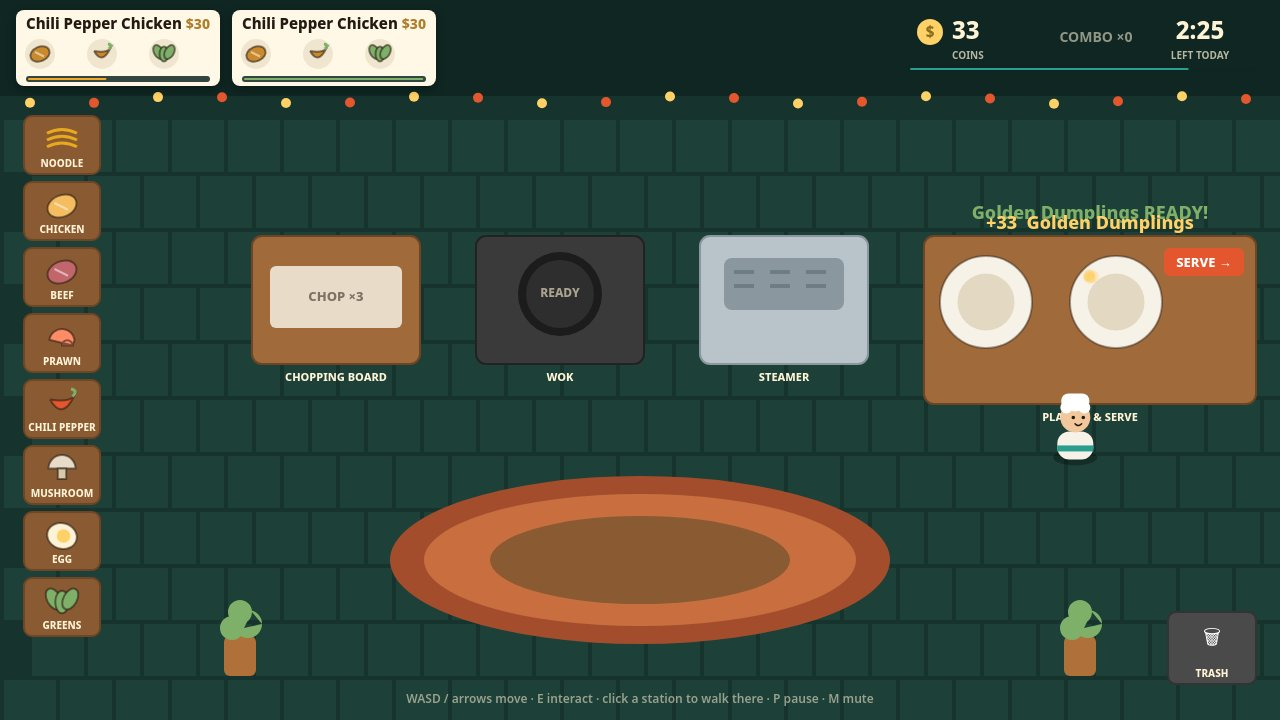
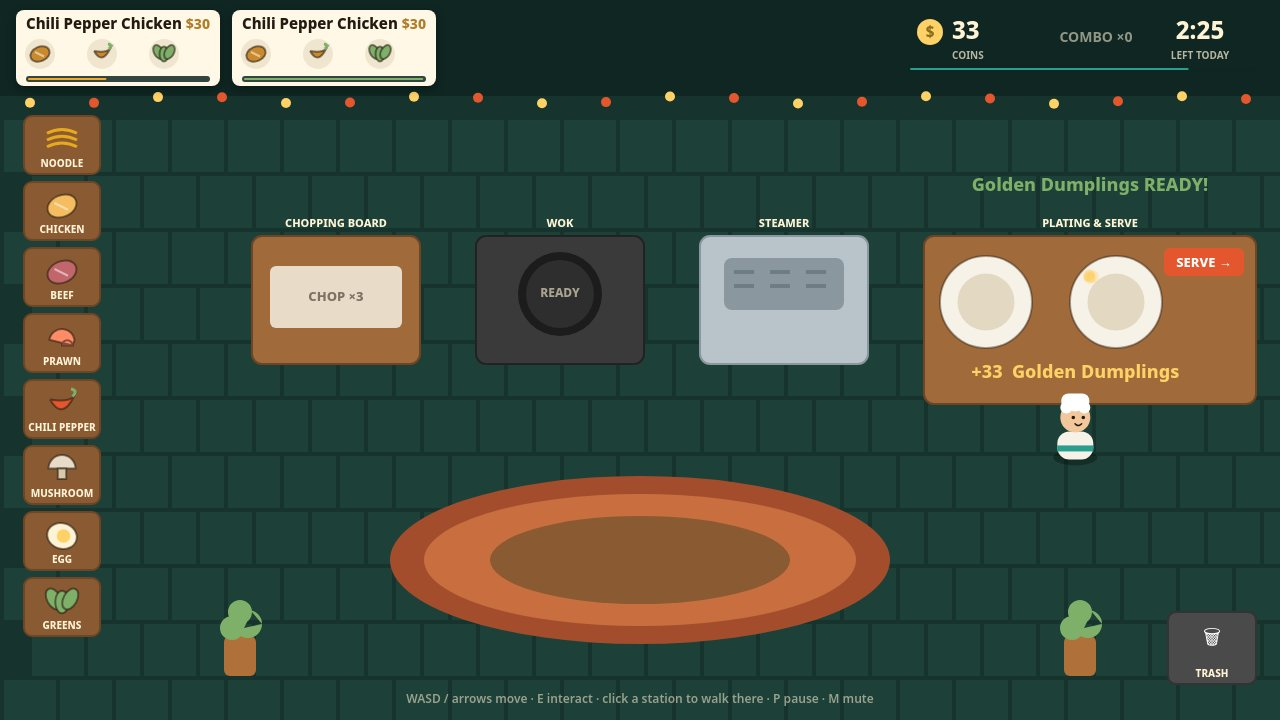
Fix popup/label collisions; drop work notes from repo
READY! and BURNT! popups moved above the station labels they
collided with. CRITIC.md/TOURNAMENT.md stay on disk, not in the entry.

diff --git a/game/src/world.js b/game/src/world.js
@@ -278,7 +278,7 @@ function interact(state, zone) {
           state.events.push(EVENT_PLACE);
           const recipe = plateRecipe(plate);
           if (recipe) {
-            popup(state, zone.x + zone.w / 2, zone.y - 12, `${recipe.name} READY!`, '#7fb069');
+            popup(state, zone.x + zone.w / 2, zone.y - 40, `${recipe.name} READY!`, '#7fb069');
             state.events.push(EVENT_DING);
           }
           return;
@@ -376,7 +376,7 @@ export function stepWorld(state, input) {
     if (state.wok.t >= WOK_SECONDS && state.wok.item.stage === 'chopped') state.wok.item.stage = 'wokked';
     if (state.wok.t >= BURN_SECONDS && state.wok.item.stage !== 'burnt') {
       state.wok.item.stage = 'burnt';
-      popup(state, STATIONS.wok.x + 84, STATIONS.wok.y - 10, 'BURNT!', '#e4572e');
+      popup(state, STATIONS.wok.x + 84, STATIONS.wok.y - 40, 'BURNT!', '#e4572e');
       state.events.push(EVENT_BURN);
     }
   }
